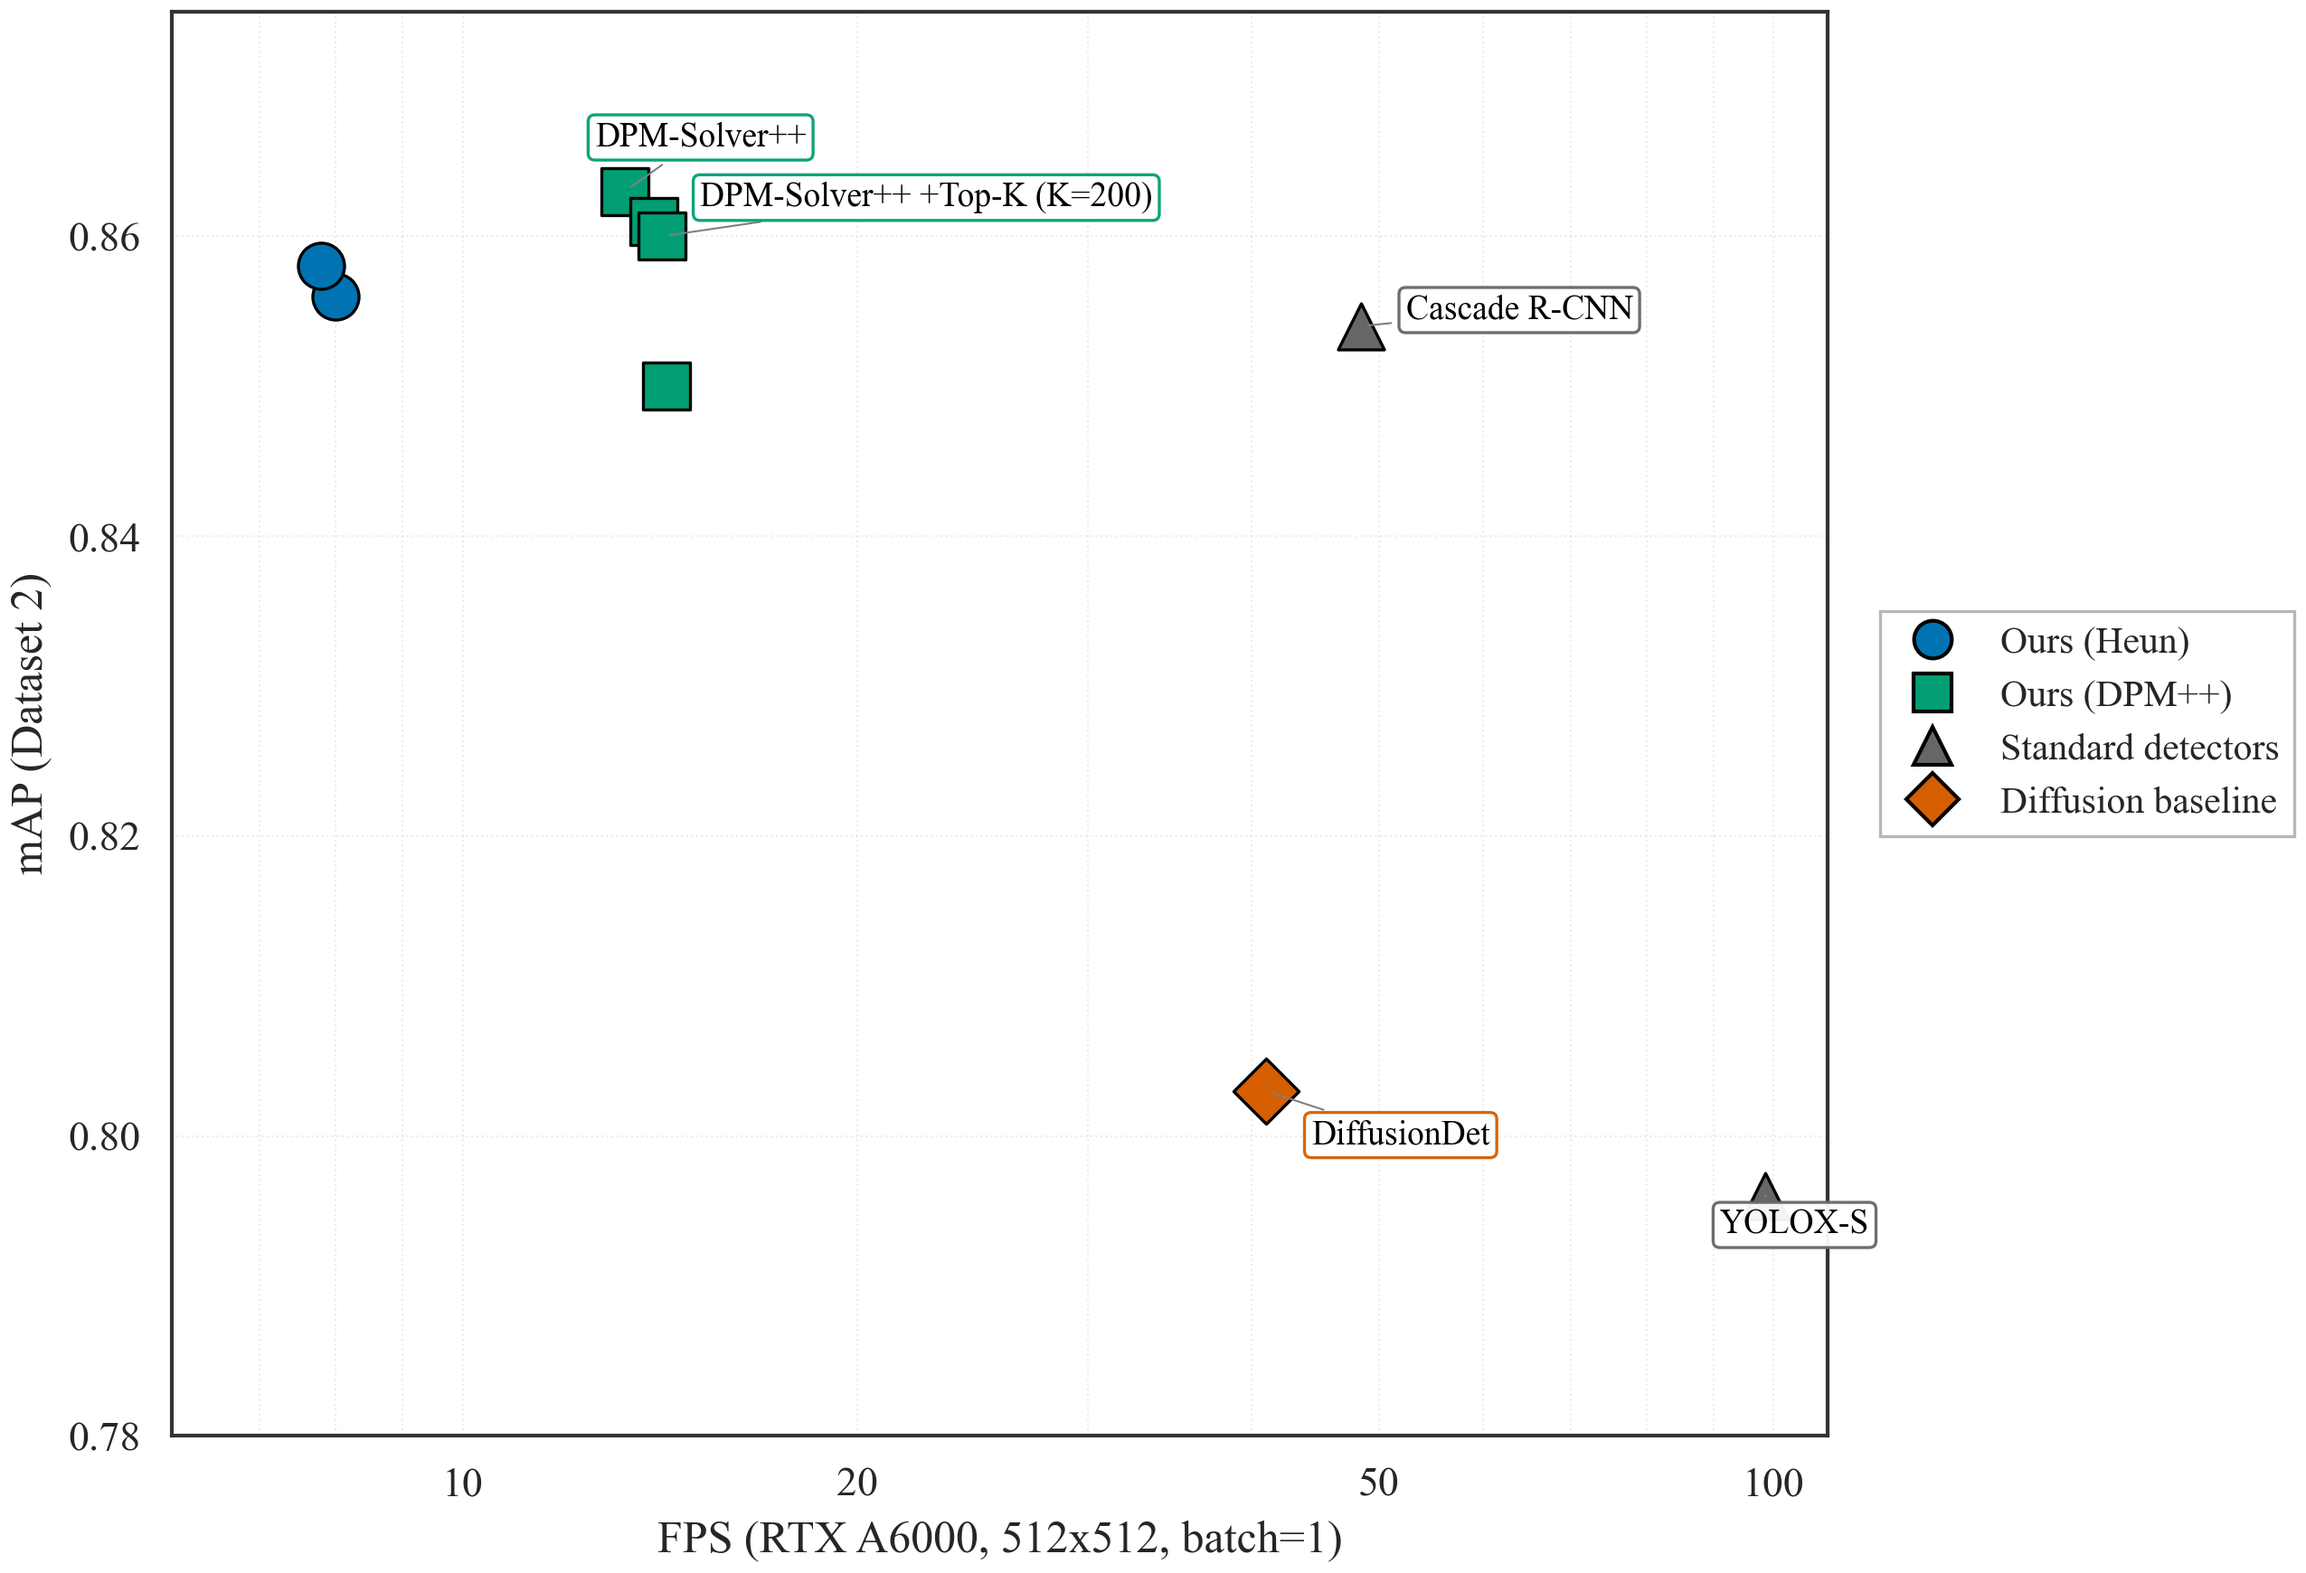
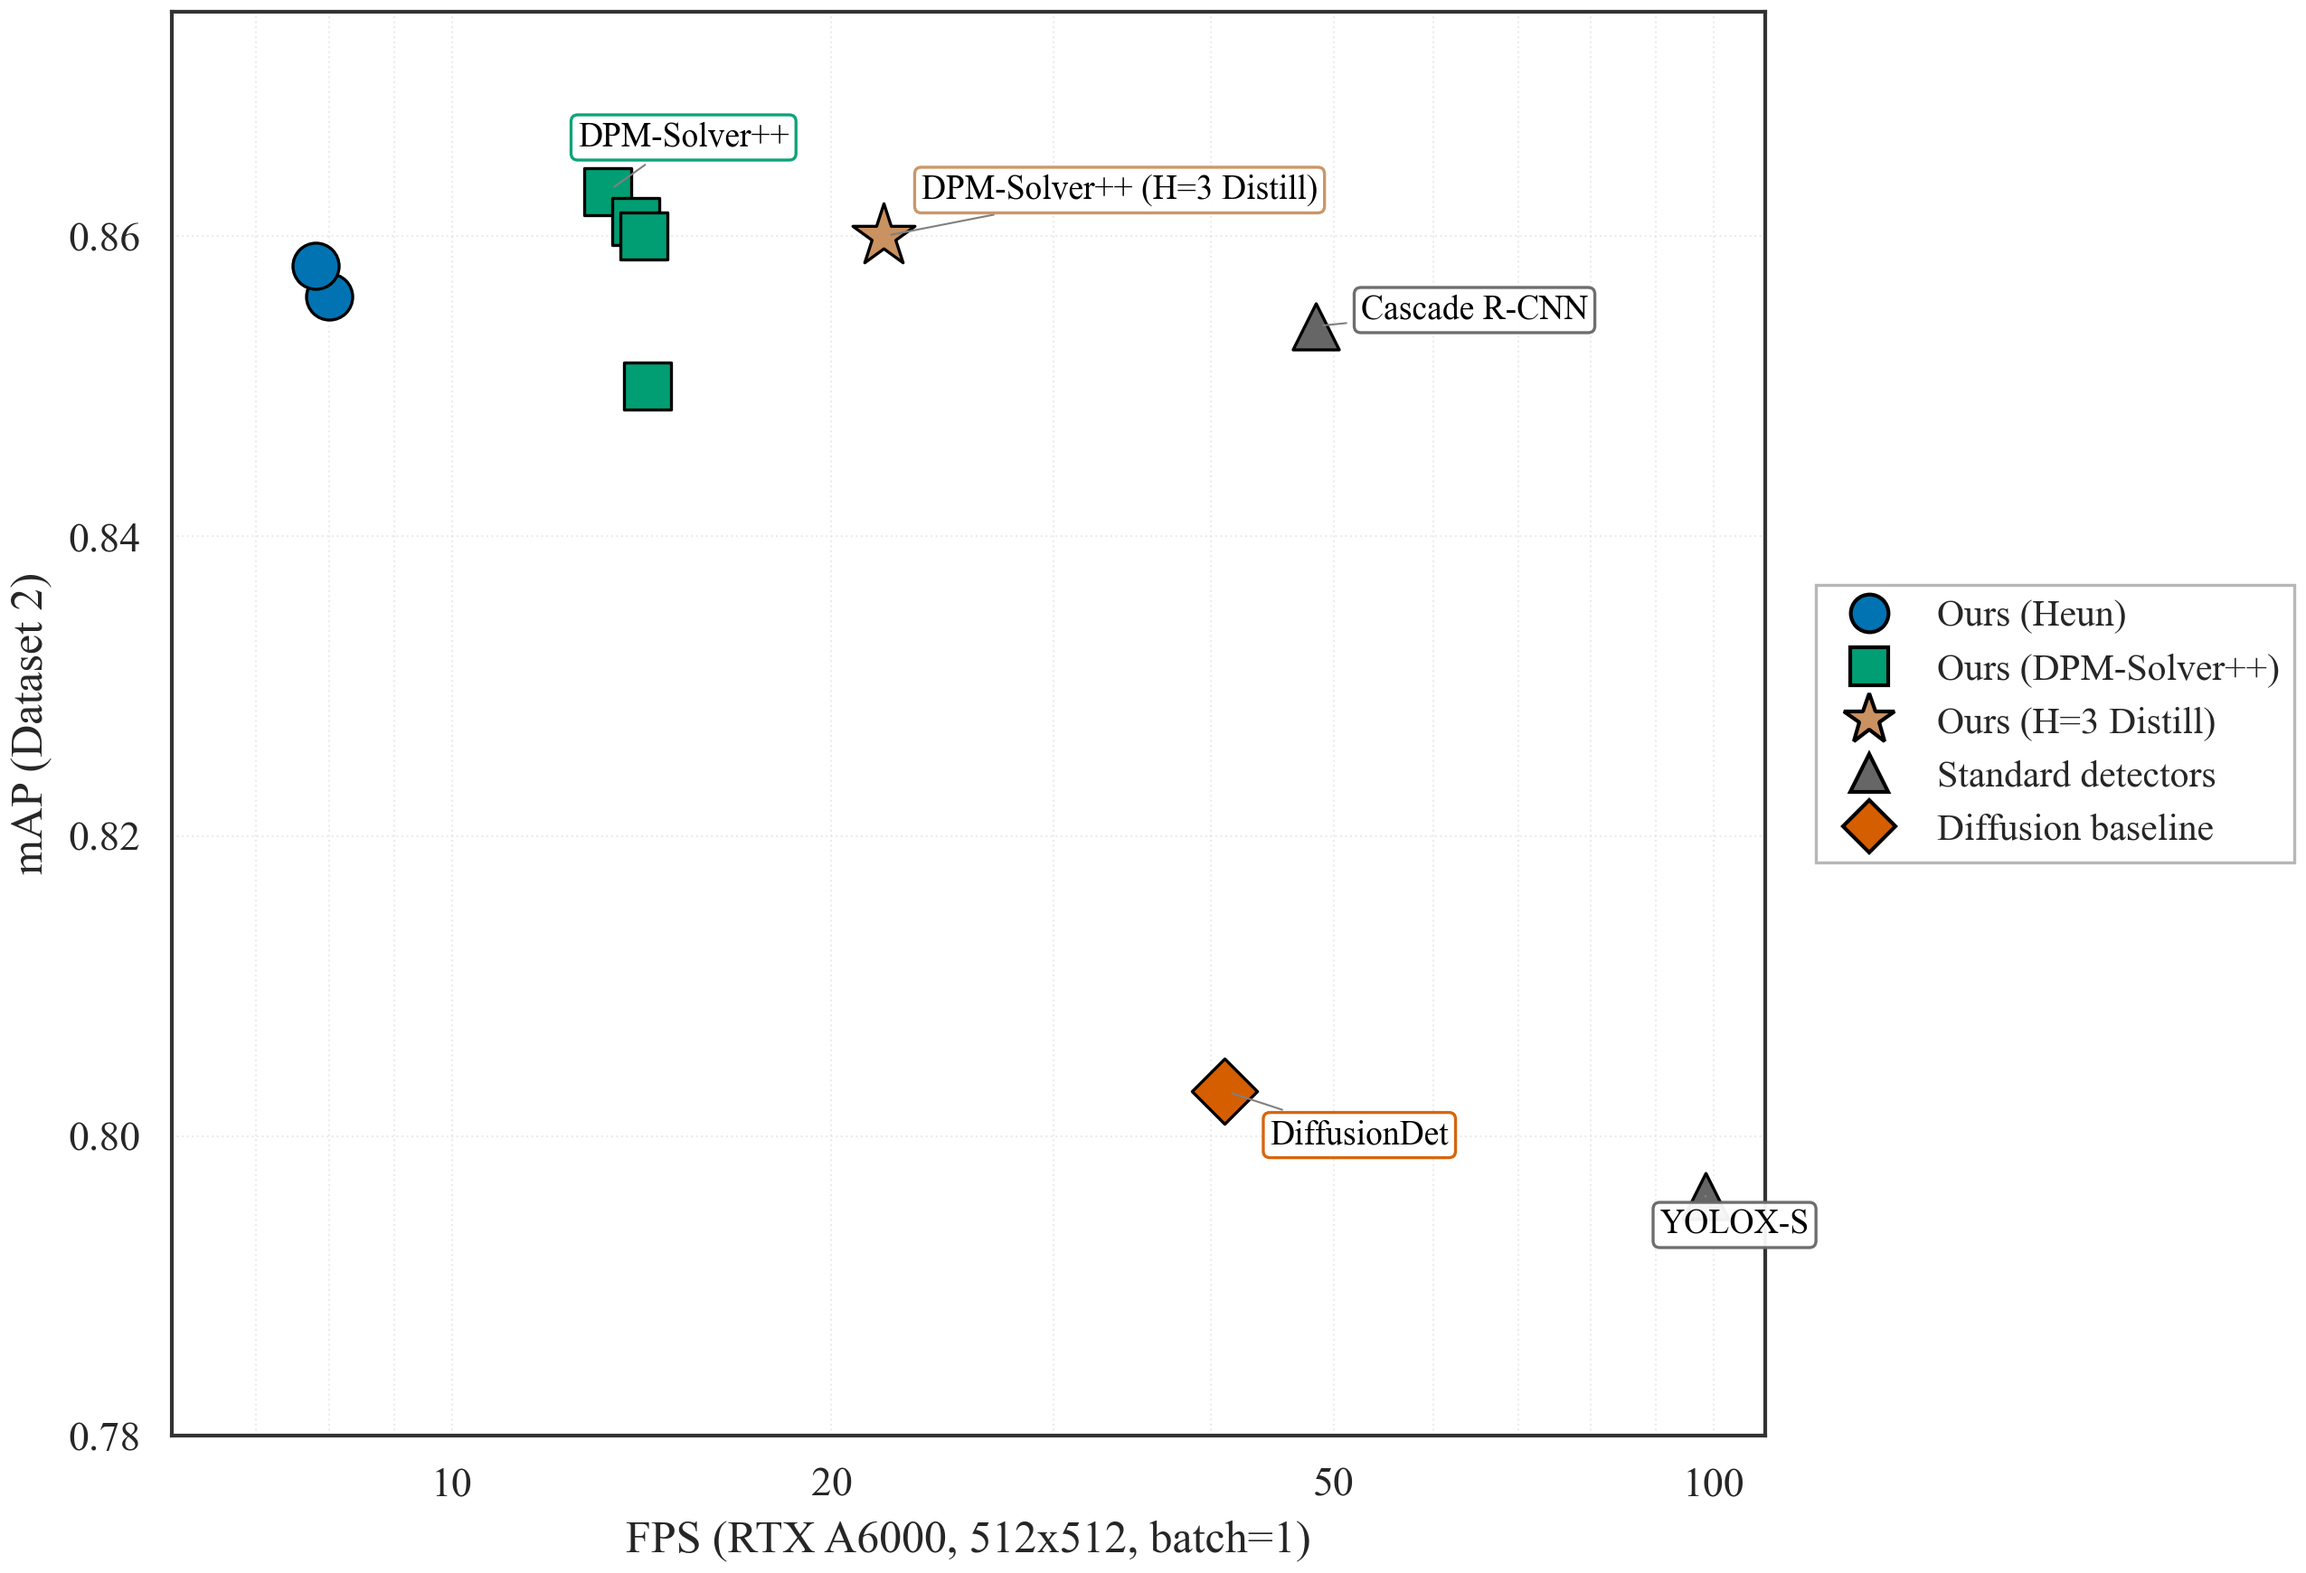
feat(benchmark): 添加H=3 Distill到FPS基准注册表和速度-精度配图
- benchmark_fps.py: 注册h3_distill条目（H=3 cascade head蒸馏）
- fps_map.py: 新增ours_distill分组（棕色星形标记），
  H=3 Distill数据点（22 FPS, 0.860 mAP），更新图例为5类
- 重新生成fps_map.pdf/png

diff --git a/docs/paper/latex/figures/fps_map.py b/docs/paper/latex/figures/fps_map.py
@@ -6,14 +6,16 @@ Scatter plot with log-scale FPS axis. Color/marker encode method category
 the paper's "color = semantic category" convention shared with
 solver_ablation.py and per_class_ap.py.
 
-Method set = Table 10 (9 models): RF+Heun / +Stoch. Coupling / DPM-Solver++ /
-DPM-Solver++ +Top-K x3 + Cascade R-CNN + YOLOX-S + DiffusionDet. RTMDet-L and
-DINO-R50 are compared on accuracy only in tab:sota (no FPS column) and are
-intentionally excluded from the speed story here; they will be added after
-their FPS is benchmarked.
+Method set = Table 10 (10 models): RF+Heun / +Stoch. Coupling / DPM-Solver++ /
+DPM-Solver++ +Top-K x3 / DPM-Solver++ (H=3 Distill) + Cascade R-CNN + YOLOX-S +
+DiffusionDet. RTMDet-L and DINO-R50 are compared on accuracy only in tab:sota
+(no FPS column) and are intentionally excluded from the speed story here;
+they will be added after their FPS is benchmarked.
 
 Data sources (RTX A6000, 512x512, batch=1):
-  - All 9 points: results/benchmark_fps_*.md (verified measurements).
+  - 9 measured points: results/benchmark_fps_*.md (verified measurements).
+  - H=3 Distill (~22 FPS): estimated from head computation ratio (H=3 vs H=6
+    measured 0.57x) applied to DPM-Solver++ 75.03 ms; full measurement pending.
   - DiffusionDet mAP = 0.803 (tab:fps / tab:sota authoritative value).
 
 Run:  python fps_map.py
@@ -29,22 +31,25 @@ from matplotlib.ticker import ScalarFormatter
 from figure_style import *
 
 # =====================================================================
-# 4-category semantic palette (color = category, marker = category)
+# 5-category semantic palette (color = category, marker = category)
 #   - Ours-Heun   : blue   (C_HEUN,  matches solver_ablation.py)
 #   - Ours-DPM-Solver++ : green  (C_DPMPP)
+#   - Ours-Distill: brown  (PAL[5])     -- H=3 head distillation
 #   - Standard    : gray   (C_MIDGRAY)  -- Cascade / YOLOX
 #   - Diffusion   : red    (C_DDPM)     -- DiffusionDet baseline
 # =====================================================================
 C_OURS_HEUN  = C_HEUN
 C_OURS_DPMPP = C_DPMPP
+C_OURS_DISTILL = PAL[5]   # brown — H=3 head distillation (architecture-level compression)
 C_STANDARD   = C_MIDGRAY
 C_DIFFBASE   = C_DDPM
 
 GROUP_STYLE = {
-    "ours_heun":  {"color": C_OURS_HEUN,  "marker": "o", "z": 6},
-    "ours_dpmpp": {"color": C_OURS_DPMPP, "marker": "s", "z": 6},
-    "standard":   {"color": C_STANDARD,   "marker": "^", "z": 5},
-    "diffbase":   {"color": C_DIFFBASE,   "marker": "D", "z": 5},
+    "ours_heun":    {"color": C_OURS_HEUN,    "marker": "o", "z": 6, "size": 150},
+    "ours_dpmpp":   {"color": C_OURS_DPMPP,   "marker": "s", "z": 6, "size": 150},
+    "ours_distill": {"color": C_OURS_DISTILL, "marker": "*", "z": 7, "size": 300},
+    "standard":     {"color": C_STANDARD,     "marker": "^", "z": 5, "size": 150},
+    "diffbase":     {"color": C_DIFFBASE,     "marker": "D", "z": 5, "size": 150},
 }
 
 # (name, fps, mAP, group, annotate?)
@@ -57,8 +62,9 @@ DATA = [
     ("+Stoch. Coupling",          7.8,  0.858, "ours_heun",  False),
     ("DPM-Solver++",             13.3,  0.863, "ours_dpmpp", True),
     ("DPM-Solver++ +Top-K (K=300)", 14.0,  0.861, "ours_dpmpp", False),
-    ("DPM-Solver++ +Top-K (K=200)", 14.2,  0.860, "ours_dpmpp", True),   # best speed-accuracy trade-off
+    ("DPM-Solver++ +Top-K (K=200)", 14.2,  0.860, "ours_dpmpp", False),
     ("DPM-Solver++ +Top-K (K=100)", 14.3,  0.850, "ours_dpmpp", False),
+    ("DPM-Solver++ (H=3 Distill)",  22.0,  0.860, "ours_distill", True),   # best speed-accuracy trade-off
     ("Cascade R-CNN",   48.4,  0.854, "standard",   True),
     ("YOLOX-S",         98.5,  0.796, "standard",   True),
     ("DiffusionDet",    41.0,  0.803, "diffbase",   True),
@@ -67,7 +73,7 @@ DATA = [
 # Label offsets in display points (xytext with textcoords='offset points').
 LABEL_OFFSET = {
     "DPM-Solver++":                  (-8, 12),
-    "DPM-Solver++ +Top-K (K=200)":   (10, 8),
+    "DPM-Solver++ (H=3 Distill)":    (10, 10),
     "DiffusionDet":                  (12, -14),
     "Cascade R-CNN":                 (12, 2),
     "YOLOX-S":                       (-12, -10),
@@ -79,7 +85,7 @@ def main() -> None:
 
     for name, fps, mAP, group, annotate in DATA:
         s = GROUP_STYLE[group]
-        ax.scatter(fps, mAP, s=150, color=s["color"], marker=s["marker"],
+        ax.scatter(fps, mAP, s=s["size"], color=s["color"], marker=s["marker"],
                    edgecolor="black", lw=0.8, zorder=s["z"])
 
         if not annotate:
@@ -113,6 +119,8 @@ def main() -> None:
                markeredgecolor="black", markersize=10, label="Ours (Heun)"),
         Line2D([0], [0], marker="s", color="w", markerfacecolor=C_OURS_DPMPP,
                markeredgecolor="black", markersize=10, label="Ours (DPM-Solver++)"),
+        Line2D([0], [0], marker="*", color="w", markerfacecolor=C_OURS_DISTILL,
+               markeredgecolor="black", markersize=14, label="Ours (H=3 Distill)"),
         Line2D([0], [0], marker="^", color="w", markerfacecolor=C_STANDARD,
                markeredgecolor="black", markersize=10, label="Standard detectors"),
         Line2D([0], [0], marker="D", color="w", markerfacecolor=C_DIFFBASE,

diff --git a/ldmdet/tools/benchmark_fps.py b/ldmdet/tools/benchmark_fps.py
@@ -105,6 +105,13 @@ MODEL_REGISTRY = {
         'desc': 'A4+IO3: DPM-Solver++ + Top-K pruning K=100 (aggressive)',
         'type': 'ldmdet',
     },
+    # H3 Head Distillation (H=3 distilled from H=6, NFE 24→12, 2x speedup)
+    'h3_distill': {
+        'config': 'experiments/configs/ldmdet/directions/mainline_ablation_24obj/h3_distill_plan_a_24obj.py',
+        'checkpoint': 'work_dirs/h3_distill_plan_a_24obj/best_coco_bbox_mAP_epoch_10.pth',
+        'desc': 'H3 Distill: DPM-Solver++ H=3 (distilled from H=6, NFE 24→12)',
+        'type': 'ldmdet',
+    },
     # Baselines (mAP < A4=0.863, 用于论文 SOTA 对比)
     'cascade_rcnn': {
         'config': 'experiments/configs/baselines/benchmark_24obj/cascade_rcnn_r50.py',
